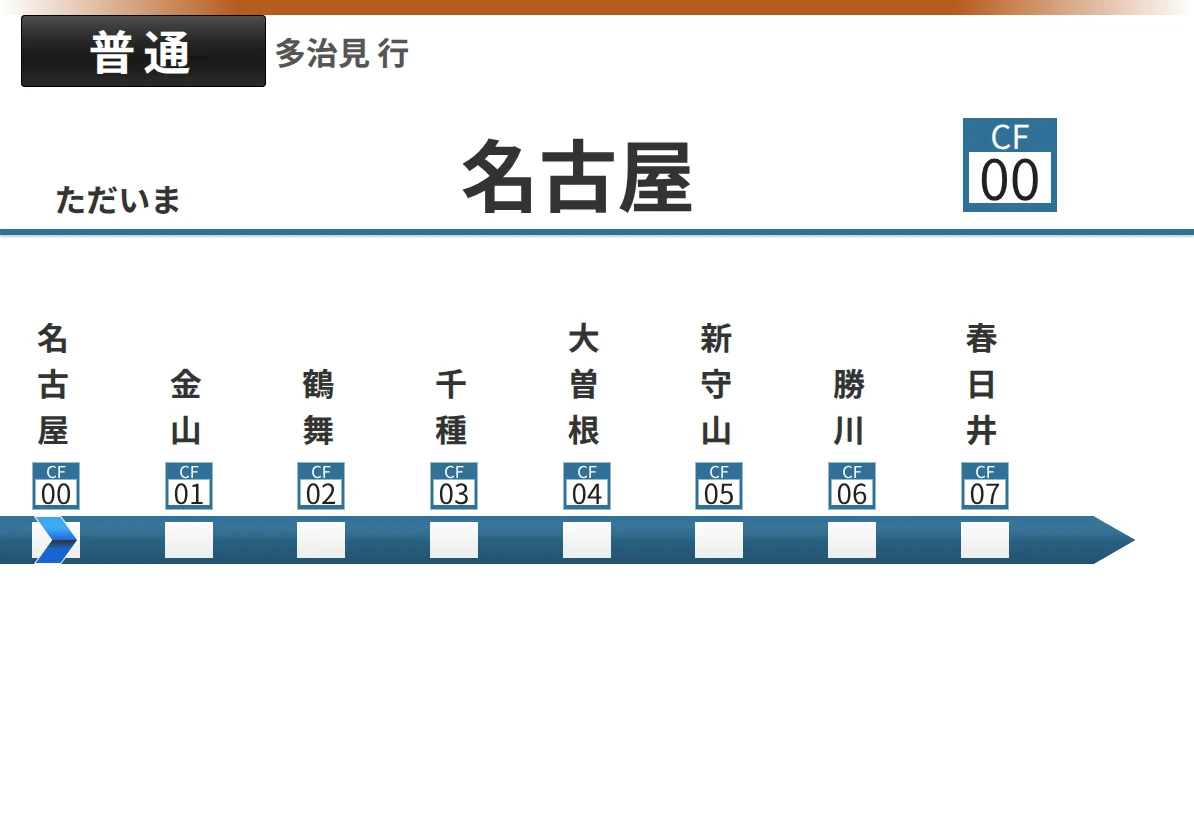
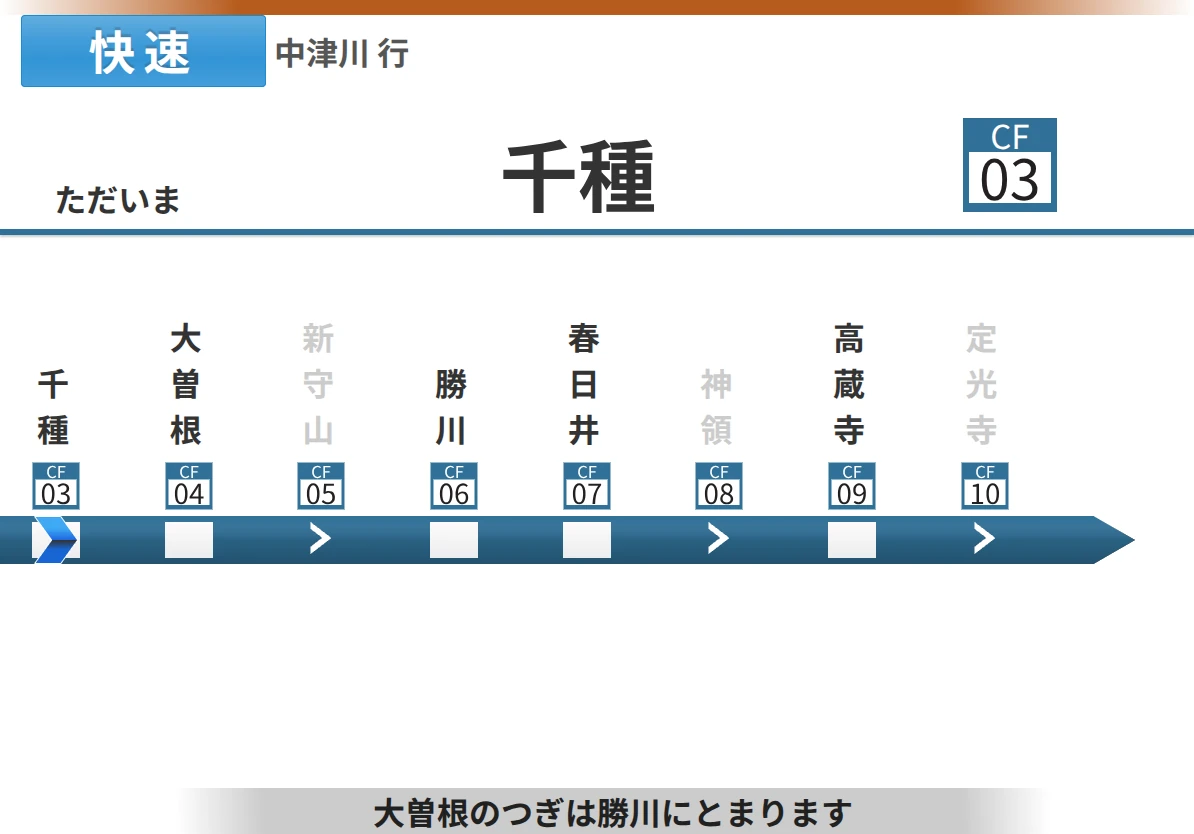
315系風のタブレット版に次停車駅の案内を追加する

diff --git a/src/components/LineBoardEast.tsx b/src/components/LineBoardEast.tsx
@@ -11,8 +11,6 @@ import {
   useLandscapeWindowDimensions,
   useTransferLinesFromStation,
 } from '~/hooks';
-import { useAfterNextStation } from '~/hooks/useAfterNextStation';
-import { useDisplayNextStation } from '~/hooks/useDisplayNextStation';
 import { useScale } from '~/hooks/useScale';
 import { arrivedAtom } from '~/store/atoms/station';
 import { isEnAtom } from '~/store/selectors/isEn';
@@ -22,13 +20,13 @@ import isTablet from '../utils/isTablet';
 import { BarTerminalEast } from './BarTerminalEast';
 import { BarTerminalOdakyu } from './BarTerminalOdakyu';
 import type { ChevronColor } from './ChevronTY';
-import { Heading } from './Heading';
 import {
   BlinkingChevron,
   EmptyStationNameCell,
   LineDot,
   StationName,
 } from './LineBoard/shared/components';
+import { NextStopBanner } from './LineBoard/shared/components/NextStopBanner';
 import {
   useBarStyles,
   useChevronPosition,
@@ -60,17 +58,6 @@ const localStyles = StyleSheet.create({
     justifyContent: 'center',
     alignItems: 'center',
     overflow: 'visible',
-  },
-  nextStopBanner: {
-    position: 'absolute',
-    bottom: 0,
-    left: '12.5%',
-    right: '12.5%',
-  },
-  nextStopBannerText: {
-    color: '#212121',
-    fontWeight: 'bold',
-    textAlign: 'center',
   },
 });
 
@@ -516,10 +503,6 @@ const LineBoardEast: React.FC<Props> = ({
 }: Props) => {
   const selectedLine = useAtomValue(selectedLineAtom);
   const currentLine = useCurrentLine();
-  // useAfterNextStation が案内面共通の次駅 (useDisplayNextStation) 起点に
-  // なったため、バナーの「◯◯のつぎは」側も同じ次駅を参照して整合を保つ
-  const nextStation = useDisplayNextStation();
-  const afterNextStation = useAfterNextStation();
   // 小田急テーマはETA表示の対象外のためクエリごと実行しない
   const { route: estimatedRoute } = useEstimateArrivalTimes({
     skip: isOdakyu,
@@ -534,21 +517,6 @@ const LineBoardEast: React.FC<Props> = ({
   const line = useMemo(
     () => currentLine || selectedLine,
     [currentLine, selectedLine]
-  );
-
-  const hasPassStation = useMemo(
-    () => stations.some((s) => getIsPass(s)),
-    [stations]
-  );
-
-  const showNextStopBanner = useMemo(
-    () =>
-      isOdakyu &&
-      isTablet &&
-      hasPassStation &&
-      !!nextStation?.name &&
-      !!afterNextStation?.name,
-    [isOdakyu, hasPassStation, nextStation?.name, afterNextStation?.name]
   );
 
   // 旧実装の点滅順(初期=pair[1]、次=pair[0])を保ったままBlinkingChevronへ渡す
@@ -631,19 +599,7 @@ const LineBoardEast: React.FC<Props> = ({
       ]}
     >
       {stationsWithEmpty.map(stationNameCellForMap)}
-      {showNextStopBanner ? (
-        <LinearGradient
-          colors={['white', '#ccc', '#ccc', 'white']}
-          start={[0, 1]}
-          end={[1, 0]}
-          locations={[0, 0.1, 0.9, 1]}
-          style={localStyles.nextStopBanner}
-        >
-          <Heading style={localStyles.nextStopBannerText}>
-            {`${nextStation?.name}のつぎは${afterNextStation?.name}にとまります`}
-          </Heading>
-        </LinearGradient>
-      ) : null}
+      {isOdakyu && isTablet ? <NextStopBanner stations={stations} /> : null}
     </View>
   );
 };

diff --git a/src/components/LineBoardJRKyushu.test.tsx b/src/components/LineBoardJRKyushu.test.tsx
@@ -1,5 +1,7 @@
 import { render } from '@testing-library/react-native';
-import type { Line, Station } from '~/@types/graphql';
+import { type Line, type Station, StopCondition } from '~/@types/graphql';
+import { useDisplayNextStation } from '~/hooks/useDisplayNextStation';
+import { useSlicedStations } from '~/hooks/useSlicedStations';
 import LineBoardJRKyushu from './LineBoardJRKyushu';
 
 // モック設定
@@ -24,6 +26,14 @@ jest.mock('~/hooks/useScale', () => ({
   useScale: jest.fn(() => ({ widthScale: jest.fn((val) => val) })),
 }));
 
+jest.mock('~/hooks/useDisplayNextStation', () => ({
+  useDisplayNextStation: jest.fn(),
+}));
+
+jest.mock('~/hooks/useSlicedStations', () => ({
+  useSlicedStations: jest.fn(),
+}));
+
 jest.mock('~/store/selectors/isEn', () => ({
   isEnAtom: {},
 }));
@@ -31,11 +41,6 @@ jest.mock('~/store/selectors/isEn', () => ({
 jest.mock('~/utils/isTablet', () => ({
   __esModule: true,
   default: false,
-}));
-
-jest.mock('~/utils/isPass', () => ({
-  __esModule: true,
-  default: jest.fn(() => false),
 }));
 
 jest.mock('./BarTerminalSaikyo', () => ({
@@ -127,7 +132,70 @@ describe('LineBoardJRKyushu', () => {
 
   afterEach(() => {
     jest.clearAllMocks();
+    jest.restoreAllMocks();
   });
+
+  it.each([
+    { tablet: true, enabled: true, pass: true, terminal: false, visible: true },
+    {
+      tablet: false,
+      enabled: true,
+      pass: true,
+      terminal: false,
+      visible: false,
+    },
+    {
+      tablet: true,
+      enabled: false,
+      pass: true,
+      terminal: false,
+      visible: false,
+    },
+    {
+      tablet: true,
+      enabled: true,
+      pass: false,
+      terminal: false,
+      visible: false,
+    },
+    { tablet: true, enabled: true, pass: true, terminal: true, visible: false },
+  ])(
+    '次停車駅の案内を表示する条件 tablet=$tablet enabled=$enabled pass=$pass terminal=$terminal',
+    ({ tablet, enabled, pass, terminal, visible }) => {
+      jest.replaceProperty(require('~/utils/isTablet'), 'default', tablet);
+      const stations = [
+        mockStations[0],
+        {
+          ...mockStations[0],
+          id: 3,
+          groupId: 3,
+          name: '通過候補駅',
+          stopCondition: pass ? StopCondition.Not : StopCondition.All,
+        },
+        mockStations[1],
+      ];
+      jest
+        .mocked(useDisplayNextStation)
+        .mockReturnValue(terminal ? mockStations[1] : mockStations[0]);
+      jest.mocked(useSlicedStations).mockReturnValue(stations);
+
+      const { queryByText } = render(
+        <LineBoardJRKyushu
+          stations={stations}
+          lineColors={['#f60', '#f60', '#f60']}
+          hasTerminus={terminal}
+          showNextStopBanner={enabled}
+        />
+      );
+
+      const banner = queryByText(/のつぎは.+にとまります/);
+      if (visible) {
+        expect(banner).toHaveTextContent('博多のつぎは小倉にとまります');
+      } else {
+        expect(banner).toBeNull();
+      }
+    }
+  );
 
   it.each([false, true])(
     '埼京線風グラデ=%pを帯と終端・空き枠へ揃える',

diff --git a/src/components/LineBoard/shared/components/NextStopBanner.tsx b/src/components/LineBoard/shared/components/NextStopBanner.tsx
@@ -1,0 +1,49 @@
+import { LinearGradient } from 'expo-linear-gradient';
+import { StyleSheet } from 'react-native';
+import type { Station } from '~/@types/graphql';
+import { Heading } from '~/components/Heading';
+import { useAfterNextStation } from '~/hooks/useAfterNextStation';
+import { useDisplayNextStation } from '~/hooks/useDisplayNextStation';
+import getIsPass from '~/utils/isPass';
+
+const styles = StyleSheet.create({
+  banner: {
+    position: 'absolute',
+    bottom: 0,
+    left: '12.5%',
+    right: '12.5%',
+  },
+  text: {
+    color: '#212121',
+    fontWeight: 'bold',
+    textAlign: 'center',
+  },
+});
+
+export const NextStopBanner = ({ stations }: { stations: Station[] }) => {
+  // 次々駅の算出と同じ次駅を使い、ヘッダーと案内を揃える。
+  const nextStation = useDisplayNextStation();
+  const afterNextStation = useAfterNextStation();
+
+  if (
+    !nextStation?.name ||
+    !afterNextStation?.name ||
+    !stations.some((station) => getIsPass(station))
+  ) {
+    return null;
+  }
+
+  return (
+    <LinearGradient
+      colors={['white', '#ccc', '#ccc', 'white']}
+      start={[0, 1]}
+      end={[1, 0]}
+      locations={[0, 0.1, 0.9, 1]}
+      style={styles.banner}
+    >
+      <Heading style={styles.text}>
+        {`${nextStation.name}のつぎは${afterNextStation.name}にとまります`}
+      </Heading>
+    </LinearGradient>
+  );
+};

diff --git a/src/components/LineBoardJRKyushu.tsx b/src/components/LineBoardJRKyushu.tsx
@@ -25,6 +25,7 @@ import {
   LineDot,
   StationName,
 } from './LineBoard/shared/components';
+import { NextStopBanner } from './LineBoard/shared/components/NextStopBanner';
 import {
   useBarStyles,
   useChevronPosition,
@@ -48,6 +49,7 @@ type Props = {
   stations: Station[];
   hasTerminus: boolean;
   saikyoGradient?: boolean;
+  showNextStopBanner?: boolean;
 };
 
 // JRKyushuはヘッダーが他のテーマより高いため、独自のbottomオフセットを使用
@@ -451,6 +453,7 @@ const LineBoardJRKyushu: React.FC<Props> = ({
   lineColors,
   arrivingLineColor,
   saikyoGradient = false,
+  showNextStopBanner = false,
 }: Props) => {
   const selectedLine = useAtomValue(selectedLineAtom);
   const currentLine = useCurrentLine();
@@ -540,6 +543,9 @@ const LineBoardJRKyushu: React.FC<Props> = ({
       ]}
     >
       {stationsWithEmpty.map(stationNameCellForMap)}
+      {showNextStopBanner && isTablet ? (
+        <NextStopBanner stations={stations} />
+      ) : null}
     </View>
   );
 };

diff --git a/src/components/LineBoard.tsx b/src/components/LineBoard.tsx
@@ -171,6 +171,7 @@ const LineBoard: React.FC<Props> = ({ hasTerminus = false }: Props) => {
         return (
           <LineBoardJRKyushu
             saikyoGradient={theme === APP_THEME.JR_315}
+            showNextStopBanner={theme === APP_THEME.JR_315}
             stations={slicedLeftStations}
             lineColors={lineColors}
             arrivingLineColor={arrivingLineColor}
